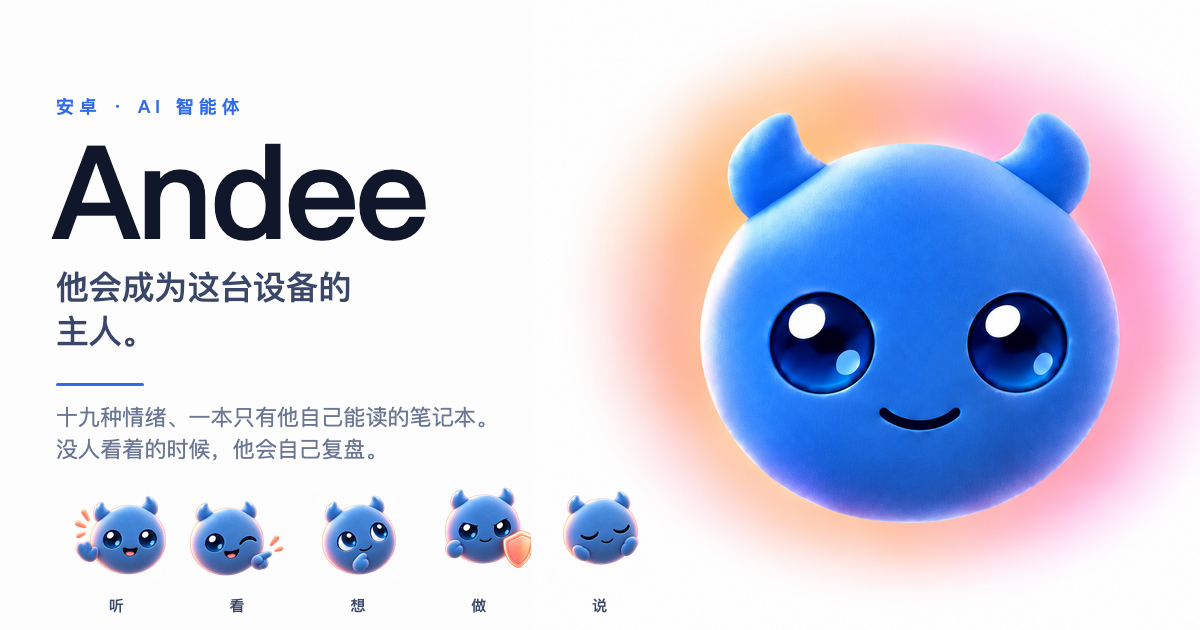
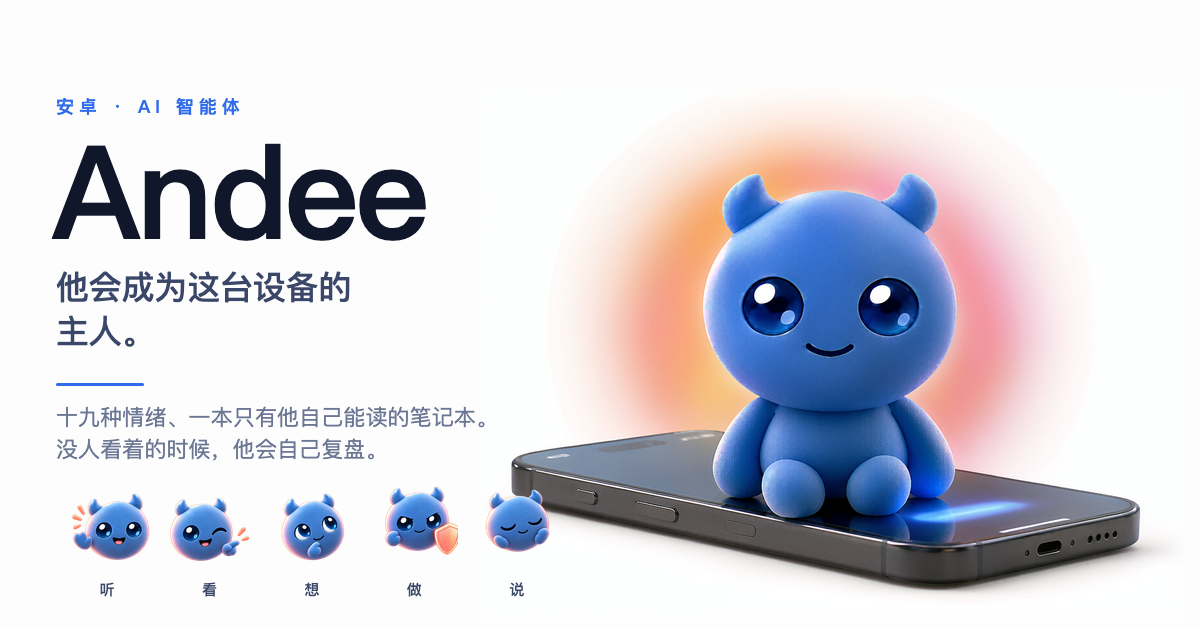
feat(cover): sit the character on a phone instead of a floating head
The README's first image was a disembodied head on white. It is now a
graphite phone lying flat with the character sitting on its screen.

- images/brand/andee-device.png: the new hero art (1536x1024, white
  background with the same warm halo as andee-head.png).
- tools/make_social_preview.py: the right-hand art is this asset, 720px
  wide, anchored bottom-right. The crop keeps 60px of white padding and
  fades the outer 40px with an analytic edge ramp; filling the mask and
  blurring it does not feather, and the first attempt left a hard seam
  across the halo.
- The mood strip narrows from 604/104 to 512/88 so the phone's left
  corner clears the last cell.
- The text-to-art gap check measures the character's left edge (B-R>80)
  instead of a hard-coded 277*s.

Regenerated cover, cover.zh-CN, social-preview and social-preview.zh-CN.
avatar-org.png is byte-identical: the round avatar still uses
andee-head.png, which is head-only.

The character in this render has a body; the app still draws a floating
sphere. BallLook and the mood illustrations are untouched.

diff --git a/tools/make_social_preview.py b/tools/make_social_preview.py
@@ -1,16 +1,22 @@
 #!/usr/bin/env python3
 """README 封面（1200×630）、GitHub 社交预览（1280×640）与方形组织头像（512×512）。
 
-素材只有一份：`images/brand/andee-head.png`（白底 + 橙粉光晕 + 蓝色头部）。
-头部抠图和光晕补底在 `andee_head.py`，和启动图标共用同一套，所以封面上的角色
-和桌面图标是**同一张画**，不是"看起来像"。
+两份素材，各管一件事：
+
+  * 封面/社交预览的右侧主图 = `images/brand/andee-device.png`：一台躺着的手机，
+    角色坐在屏幕上 —— 讲的是"住进设备"，不是"一颗悬着的头"。
+  * 方形头像 = `images/brand/andee-head.png`：圆形裁切下只放得下头。
+    头部抠图和光晕补底在 `andee_head.py`，和启动图标共用同一套。
 
 ## 构图
 
-  * 底是纯白（源图四角就是 #FDFDFD），角色连同自带的光晕一起贴上去，
-    光晕与白底在边缘处自然融掉 —— 所以不抠光晕，贴整张。
-  * 文字深色，左对齐；角色在右。文字右缘到角色**头部**左缘的间距会量出来，
-    小于 40px 就告警（标语长了 20px 悄悄压到头上，只有肉眼看得出）。
+  * 底是纯白（#FDFDFD）。主图自带白边，**不抠图**：按内容框裁掉多余白边，
+    再用一圈解析斜坡（`edge_ramp`）把最外 40px 淡成透明。光晕本来就在白边上，
+    淡出看不出来；硬切会在光晕里留一条横向接缝（第一版就是这么翻车的，
+    原因是"填满整块再模糊"等于没羽化）。
+  * 文字深色，左对齐；主图在右下。文字右缘到**角色**左缘（蓝通道差 > 80 的
+    最左列）的间距会量出来，小于 40px 就告警。
+  * 底部那行五张表情收窄到 512px（原来是 604），否则手机左端会压到最后一格。
   * 头像是圆形裁切（GitHub 组织头像就是圆的）：脚本量角色最远点到圆心的
     距离，越界就告警。
 
@@ -42,22 +48,26 @@ W, H = 1280, 640
 COVER = (1200, 630)
 AVATAR = 512
 
-# 角色整图（含光晕）在 1280×640 画布上的落位：整图边长与中心。
-ART_SIDE = 760
-ART_CX, ART_CY = 952.0, 322.0
-# 头部本身的直径（量出来的 693px）按同比例缩放后的值，用于文字间距自检。
-HEAD_W_SRC = 693.0
+# 右侧主图（手机 + 坐在屏幕上的角色）的落位。它自带白边，所以按**内容框**裁，
+# DEV_PAD 是留给斜坡的白边宽度：斜坡全落在这圈白里，角色和手机一个像素都不透明。
+DEVICE_SRC = REPO / "images" / "brand" / "andee-device.png"
+DEV_W = 720                       # 落到画布上的宽度（裁切后）
+DEV_RIGHT, DEV_BOTTOM = 1232, 636  # 右下角锚点
+DEV_TRIM = 30                     # 判"内容"的阈值：与白底的最大通道差
+DEV_PAD = 60                      # 内容框外保留的白边
+DEV_RAMP = 40                     # 淡出斜坡的宽度（画到画布上的像素）
+DEV_BLUE = 80                     # 角色判据：B − R > 80（手机是中性色，不会被算进来）
 
 # 文字基线（比原来整体上移 60px，给最下面那条表情行让位）
 Y_EYEBROW, Y_TITLE, Y_TAG = 118, 244, 304
 Y_RULE, Y_FOOT = 388, 430
 
 # 最下面那条「一张插画 + 一个字」的行：五张横向排开，标签居中在每张下面。
-# 宽度锁在左栏里（96 → 700），所以它不会碰到右边那颗头。
+# 宽度锁在左栏里（96 → 608），这样右侧主图（手机左端在 ~518）不会压到最后一格。
 # 插画是 App 的手势情绪（WINK / WAVE / PROTECT / REST 那批带道具的），
 # 网页渲染器 ball.js 画不出它们，所以这里用的是真图，不是渲出来的。
-FLOW_W = 604
-FLOW_IMG = 104
+FLOW_W = 512
+FLOW_IMG = 88
 FLOW_TOP = 486
 FLOW_LABEL_DY = 26
 FLOW_FONT = 15
@@ -88,10 +98,40 @@ ZH = {
 }
 
 
-def art_layer(side: int):
-    """整张角色图（带光晕）缩到 side×side。"""
-    im = Image.open(head.SRC).convert("RGB")
-    return im.resize((side, side), Image.LANCZOS)
+def content_box(rgb: np.ndarray):
+    """与白底差得够多的最外一圈像素（光晕也算内容，所以框左边通常是光晕而非手机）。"""
+    d = (255 - rgb).max(axis=2)
+    ys, xs = np.nonzero(d > DEV_TRIM)
+    return int(xs.min()), int(ys.min()), int(xs.max()), int(ys.max())
+
+
+def edge_ramp(w: int, h: int, ramp: int) -> Image.Image:
+    """四边向内 ramp 像素的平滑斜坡：边上 alpha=0，ramp 以内 alpha=255。
+
+    必须写成"从边算距离"，不能写成"填满再高斯模糊" —— 填满之后模糊出来还是
+    一张全白的掩膜，等于没羽化，光晕会被画布边缘硬切出一条接缝。
+    """
+    x = np.arange(w)[None, :]
+    y = np.arange(h)[:, None]
+    d = np.minimum(np.minimum(x, w - 1 - x), np.minimum(y, h - 1 - y)).astype(np.float64)
+    t = np.clip(d / max(1, ramp), 0, 1)
+    return Image.fromarray(((t * t * (3 - 2 * t)) * 255).astype(np.uint8), "L")
+
+
+def device_layer():
+    """右侧主图：裁掉多余白边 → 缩到 DEV_W → 四边淡出。返回 (图, 角色左缘x)。"""
+    src = Image.open(DEVICE_SRC).convert("RGB")
+    rgb = np.asarray(src).astype(np.int16)
+    x0, y0, x1, y1 = content_box(rgb)
+    char_x0 = int(np.nonzero(((rgb[:, :, 2] - rgb[:, :, 0]) > DEV_BLUE).any(axis=0))[0].min())
+    box = (max(0, x0 - DEV_PAD), max(0, y0 - DEV_PAD),
+           min(src.size[0], x1 + DEV_PAD), min(src.size[1], y1 + DEV_PAD))
+    art = src.crop(box)
+    s = DEV_W / art.size[0]
+    art = art.resize((int(round(art.size[0] * s)), int(round(art.size[1] * s))), Image.LANCZOS)
+    out = art.convert("RGBA")
+    out.putalpha(edge_ramp(*art.size, max(2, int(round(DEV_RAMP * s)))))
+    return out, (char_x0 - box[0]) * s
 
 
 def build_svg(copy: dict) -> str:
@@ -223,20 +263,19 @@ def flow_layer(copy: dict):
 
 def compose(copy, name, tmp, size=None):
     base = Image.new("RGB", (W, H), (253, 253, 253)).convert("RGBA")
-    art = art_layer(ART_SIDE).convert("RGBA")
-    left, top = int(ART_CX - ART_SIDE / 2), int(ART_CY - ART_SIDE / 2)
-    base.alpha_composite(art, (left, top)) if left >= 0 and top >= 0 else base.paste(art, (left, top))
+    layer, char_left = device_layer()
+    left, top = DEV_RIGHT - layer.size[0], DEV_BOTTOM - layer.size[1]
+    base.alpha_composite(layer, (left, top))
     for im, xy in flow_layer(copy):
         base.alpha_composite(im, xy)
     text_layer = render_text_layer(build_svg(copy), tmp)
     base.alpha_composite(Image.open(text_layer).convert("RGBA"))
     final = base.convert("RGB")
 
-    s = ART_SIDE / 1254.0
-    head_left = left + 277 * s
+    char_x = left + char_left          # 角色最左列在画布上的 x
     over = text_right_edge(text_layer)
-    gap = head_left - over
-    print(f"  文字右缘 {over} / 头部左缘 {head_left:.0f} / 间距 {gap:.0f}px"
+    gap = char_x - over
+    print(f"  文字右缘 {over} / 角色左缘 {char_x:.0f} / 间距 {gap:.0f}px"
           + ("   ⚠ 太挤" if gap < 40 else ""))
 
     if size and size != (W, H):
